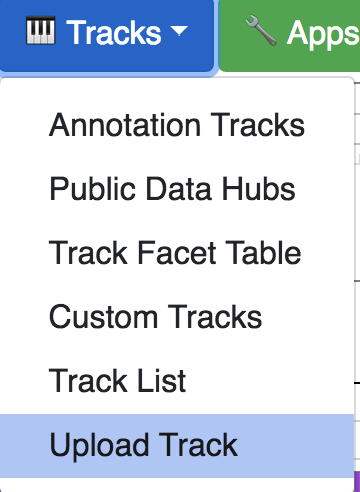
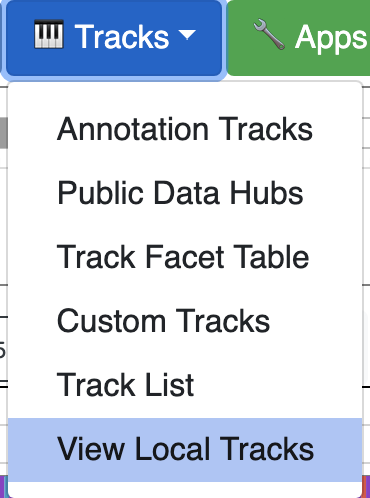
Add citation info and others

diff --git a/docs/local.rst b/docs/local.rst
@@ -2,24 +2,24 @@ Local track files
 =================
 
 We realize that not every research group has the ability to set up a web server with CORS enabled. As of version 48.0.0,
-we added the ability to read local track files or an entire folder as a datahub. This means the user can *upload* track files
-from their hard drive to the browser. The format for these track files is the same as those that are hosted on a webserver.
+we added the ability to read local track files or an entire folder as a datahub. This means the user can **view** track files
+from their hard drive to the browser. The format for these track files is same as those that are hosted on a webserver.
 
-.. note:: The tracks *uploaded* through the file upload feature *cannot* be saved to the browser's local
+.. note:: The tracks *viewed* through the local track feature *cannot* be saved to the browser's local
           storage. Thus, when you refresh the browser your local tracks will be gone. Tracks need to be
-          re-upload to re-grant the browser permission to read  local files.
+          re-selected or re-grant the browser permission to read local files.
           This is a security setup of Javascript. To avoid uploading multiple files repeatedly, the user can create
           a ``hub.config.json`` file to specify files as a local datahub. In this manner, after a refresh event the user
-          can just upload their local datahub again instead of uploading individual tracks separately.
+          can just choose their local datahub again instead of choosing individual tracks separately.
 
 .. important:: Since the user needs to give permission for the web browser to access
                files on a local hard drive, tracks from a local hard drive **cannot** be saved
                into ``Session``. Please consider using HTTP(S) hosted tracks to work with the session function.
 
-Upload files as tracks
-----------------------
+View local files as tracks
+--------------------------
 
-To use your local files, make sure to format your files correctly. First, open the ``Upload Track``
+To use your local files, make sure to format your files correctly. First, open the ``View Local Tracks``
 menu from ``Tracks``:
 
 .. image:: _static/upload1.png
@@ -28,9 +28,9 @@ By default, you will be on the ``Add Local Track`` tab. Second, choose your trac
 
 .. image:: _static/upload2.png
 
-Third, choose your files. You can choose many files of same type if the track upload type only requires one
-file (``bigWig``, ``bigBed``, ``HiC``, and ``bigInteract``) or if the track upload type requires a data
-file and **index** file (``bedGraph``, ``methylC``, etc.) then you need to upload each pair individually.
+Third, choose your files. You can choose many files of same type if the track type only requires one
+file (``bigWig``, ``bigBed``, ``HiC``, and ``bigInteract``) or if the track type requires a data
+file and **index** file (``bedGraph``, ``methylC``, etc.) then you need to choose *each pair* individually.
 
 .. image:: _static/upload3.png
 
@@ -50,7 +50,7 @@ The bedGraph track is added to the browser view:
 
 .. image:: _static/upload7.png
 
-Upload files or a folder as a datahub
+View files or a folder as a datahub
 -------------------------------------
 
 If you want to upload many different types of track files to the browser, you can do that too!
@@ -87,7 +87,7 @@ Create a file called ``hub.config.json`` for the browser to configure your local
 
 .. note:: Please note the ``name`` and ``options`` attribute specified in this file. The syntax is the same as a remote datahub file.
 
-.. note:: Track files not specified in ``hub.config.json`` will be skipped.
+.. note:: Track files not specified in ``hub.config.json`` will be skipped. Orders of tracks will follow the order defined in ``hub.config.json`` file.
 
 You can either choose an entire folder by clicking the first button:
 

diff --git a/docs/datahub.rst b/docs/datahub.rst
@@ -269,7 +269,7 @@ Example genomealign track
     }
 
 Example matplot track
---------------------
+---------------------
 
 .. code-block:: json
 
@@ -393,13 +393,13 @@ to build a *hierarchical structure*. ::
         "url": "https://egg.wustl.edu/d/hg19/GSM997242_1.bigWig", 
         "metadata": {
             "Sample": [
-                "Adult Cells/Tissues", 
+                "Adult Cells/Tissues",
                 "Blood", 
                 "Other blood cells", 
                 "CD4+_CD25-_Th_Primary_Cells"
-            ],    
+            ],
             "Donor": [
-                "Donor Identifier", 
+                "Donor Identifier",
                 "Donor_332"
             ],    
             "Assay": [
@@ -542,3 +542,9 @@ maxRows
 ^^^^^^^
 
 ``maxRows`` options controls the number of rows for the annotation track, like a geneAnnotation track.
+
+hiddenPixels
+^^^^^^^^^^^^
+
+For annotation tracks, when an element spans less than `hiddenPixels` in the screen,
+this item will not be displayed. Default value is 0.5 pixel. Set to 0 will display all elements.

diff --git a/docs/faq.rst b/docs/faq.rst
@@ -21,8 +21,8 @@ Data fetch failed
 Please check the URL to your file is correct. If yes, most case, your webserver doesn't enable CORS.
 Please see :doc:`tracks` page for how to enable CORS settings.
 
-Use HTTP or HTTPS?
-------------------
+Use HTTP or HTTPS
+-----------------
 
 Both our main site and AWS mirror support both HTTP and HTTPS protocol, since webpage
 hosted through HTTPS cannot access resource hosted by HTTP, you should use our HTTP site.
@@ -41,3 +41,12 @@ a Firebase fetal error like following:
 
 This means you need to setup a Firebase database for the Session/Live function to work properly,
 check :ref:`Firebase_setup` please
+
+Local track security
+--------------------
+
+Local track function is perfect for view protected or private data, since there is no data transfer on the web. 
+More discussions about this please check here_.
+
+.. _here: https://github.com/lidaof/eg-react/issues/114
+

diff --git a/docs/contact.rst b/docs/contact.rst
@@ -18,6 +18,15 @@ Get help on social media
 You can also get help from social media:
 
 #. Google group: https://groups.google.com/forum/#!forum/epgg
-#. Google plus forum: https://goo.gl/ruXs2Y (Google is shutting down it, use github issues or google group)
 #. Facebook page: https://www.facebook.com/WashUEpiGenomeBrowser/
 #. Twitter: https://twitter.com/wuepgg
+#. Youtube Channel: https://www.youtube.com/channel/UCnGVWbxJv-DPDCAFDQ1oFQA
+
+Cite the browser
+----------------
+
+If you used the browser in your research, please help us by citing the following paper:
+
+* Daofeng Li, Silas Hsu, Deepak Purushotham, Renee L Sears, Ting Wang, WashU Epigenome Browser update 2019, Nucleic Acids Research, gkz348, https://doi.org/10.1093/nar/gkz348 [PMID: 31165883_].
+
+.. _31165883: https://www.ncbi.nlm.nih.gov/pubmed/31165883
